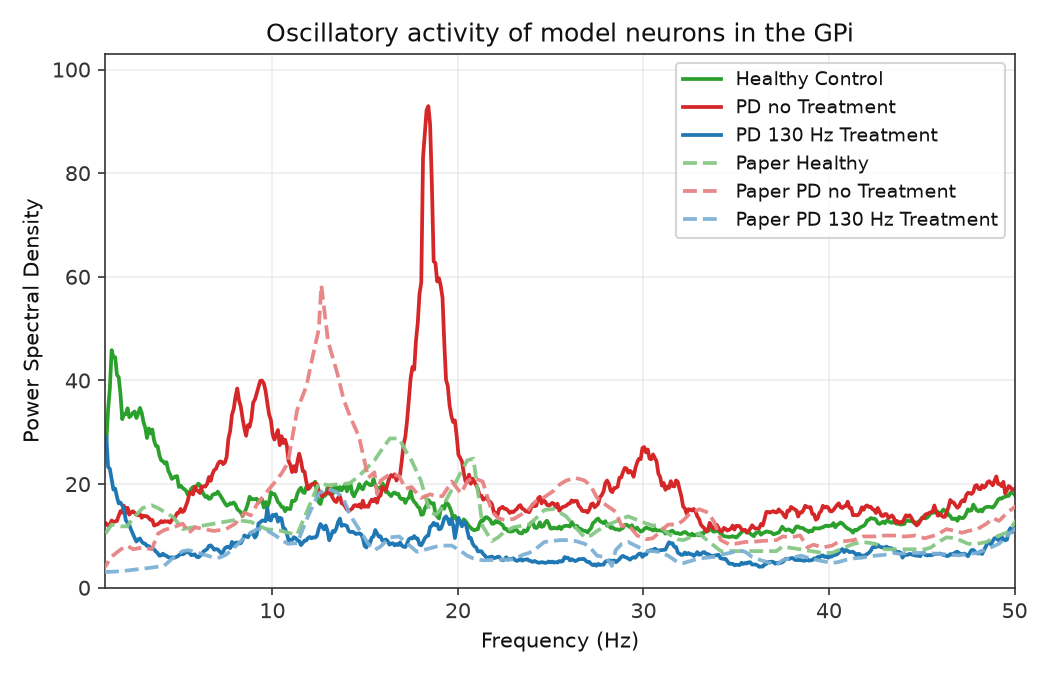
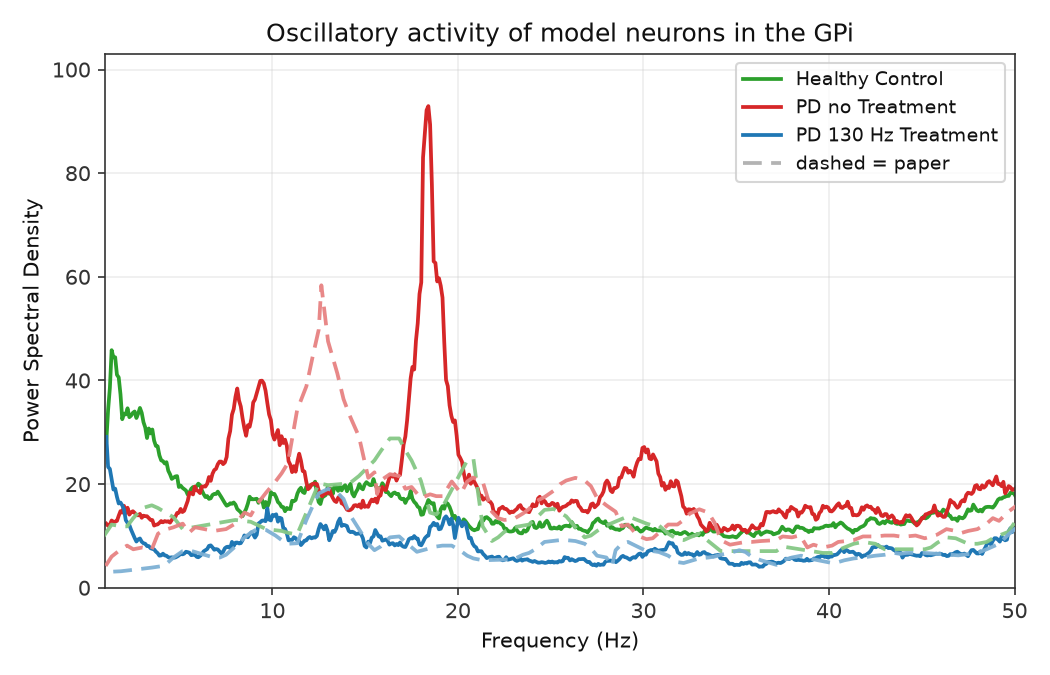
Condense Mehregan paper-overlay legends to one dashed=paper row.
Keep per-series lightened dashed traces on the axes; replace separate Paper * legend keys with a single translucent dashed handle so multi-curve panels stay readable.

diff --git a/scripts/figures/papers/paper_overlay.py b/scripts/figures/papers/paper_overlay.py
@@ -71,6 +71,10 @@ PAPER_RAW_LINEWIDTH = 1.15
 # Above typical replication zorders (usually 1–5) and annotations.
 PAPER_ZORDER = 50
 PAPER_RAW_ZORDER = 49
+# Single legend row for Mehregan (and optional callers): traces stay per-hue,
+# but the table only explains that dashed lightened lines are paper digitization.
+PAPER_CONDENSED_LEGEND_LABEL = "dashed = paper"
+PAPER_CONDENSED_LEGEND_COLOR = "#9a9a9a"
 
 PAPER_SMOOTH_STYLE: dict[str, Any] = {
     "color": "#000000",
@@ -111,6 +115,20 @@ def lighten_color(color: str, amount: float = PAPER_LIGHTEN) -> str:
 
 def paper_color_from_outline(outline: str, *, raw: bool = False) -> str:
     return lighten_color(outline, PAPER_RAW_LIGHTEN if raw else PAPER_LIGHTEN)
+
+
+def add_condensed_paper_legend(ax, *, label: str = PAPER_CONDENSED_LEGEND_LABEL) -> None:
+    """Add one translucent dashed legend handle for paper digitization overlays."""
+    ax.plot(
+        [],
+        [],
+        color=PAPER_CONDENSED_LEGEND_COLOR,
+        linestyle=(0, (5.0, 2.5)),
+        linewidth=PAPER_LINEWIDTH,
+        alpha=0.75,
+        zorder=PAPER_ZORDER,
+        label=label,
+    )
 
 
 def load_panel_curves(path: Path | str) -> dict[str, tuple[np.ndarray, np.ndarray]]:
@@ -227,12 +245,16 @@ def overlay_named_series(
     label_prefix: str = "Paper ",
     outline_colors: Sequence[str] | None = None,
     colors: Sequence[str] | None = None,
+    condensed_legend: bool = False,
+    condensed_legend_label: str = PAPER_CONDENSED_LEGEND_LABEL,
 ) -> dict[str, tuple[np.ndarray, np.ndarray]]:
     """Overlay digitized series listed as ``(digitization_name, legend_label)``.
 
     ``outline_colors`` / ``colors`` are replication outline hues; overlays are
     drawn lightened and dashed. ``snap_x=(lo, hi)`` linearly maps each series'
     x onto that window (use for panels whose paper axis is fixed, e.g. 0–12 s).
+    When ``condensed_legend`` is true, series use ``_nolegend_`` and one proxy
+    handle (``condensed_legend_label``) is added instead of per-series Paper rows.
     Returns ``{name: (x_plot, y_plot)}``.
     """
     curves = load_panel_curves(curves_path)
@@ -257,10 +279,16 @@ def overlay_named_series(
             ax,
             px_plot,
             py_plot,
-            label=f"{label_prefix}{legend_label}",
+            label=(
+                "_nolegend_"
+                if condensed_legend
+                else f"{label_prefix}{legend_label}"
+            ),
             outline_color=outline,
         )
         out[series_name] = (px_plot, py_plot)
+    if condensed_legend and out:
+        add_condensed_paper_legend(ax, label=condensed_legend_label)
     return out
 
 
@@ -518,6 +546,7 @@ def overlay_mehregan_fig1b(ax) -> dict[str, tuple[np.ndarray, np.ndarray]]:
         mapping,
         label_prefix="Paper ",
         outline_colors=(MEH_HEALTHY, MEH_PD, MEH_PD_130),
+        condensed_legend=True,
     )
 
 
@@ -532,6 +561,7 @@ def overlay_mehregan_fig2(ax) -> dict[str, tuple[np.ndarray, np.ndarray]]:
         mapping,
         label_prefix="Paper ",
         outline_colors=(MEH_PD, MEH_PD_130),
+        condensed_legend=True,
     )
 
 
@@ -546,13 +576,15 @@ def overlay_mehregan_fig2b(ax) -> dict[str, tuple[np.ndarray, np.ndarray]]:
         mapping,
         label_prefix="Paper ",
         outline_colors=(MEH_PD, MEH_PD_130),
+        condensed_legend=True,
     )
 
 
 def overlay_mehregan_fig4a(ax) -> dict[str, tuple[np.ndarray, np.ndarray]]:
     curves = load_panel_curves(MEHREGAN_DIG / "4a/paper_digitization/curves_wpd_refined.json")
     px, py = pick_series(curves, "training")
-    overlay_on_axis(ax, px, py, label="Paper (digitized)", outline_color=MEH_TRAIN_TEAL)
+    overlay_on_axis(ax, px, py, label="_nolegend_", outline_color=MEH_TRAIN_TEAL)
+    add_condensed_paper_legend(ax)
     return {"training": (py, py)}
 
 
@@ -563,6 +595,7 @@ def overlay_mehregan_fig4b_reward(ax) -> dict[str, tuple[np.ndarray, np.ndarray]
         (("Reward", "Reward"),),
         label_prefix="Paper ",
         outline_colors=(MEH_REWARD_GREEN,),
+        condensed_legend=True,
     )
 
 
@@ -573,6 +606,7 @@ def overlay_mehregan_fig4b_psd(ax) -> dict[str, tuple[np.ndarray, np.ndarray]]:
         (("PSD (x10^3)", "PSD"),),
         label_prefix="Paper ",
         outline_colors=(MEH_TRAIN_TEAL,),
+        condensed_legend=True,
     )
 
 
@@ -602,6 +636,7 @@ def overlay_mehregan_fig5a(ax) -> dict[str, tuple[np.ndarray, np.ndarray]]:
         label_prefix="Paper ",
         outline_colors=(MEH_NO_STIM, MEH_TRAINED, MEH_PERIODIC, MEH_CDBS),
         snap_x=(0.0, 12.0),
+        condensed_legend=True,
     )
 
 
@@ -618,6 +653,7 @@ def overlay_mehregan_fig5b(ax) -> dict[str, tuple[np.ndarray, np.ndarray]]:
         label_prefix="Paper ",
         outline_colors=(MEH_NO_STIM, MEH_TRAINED, MEH_PERIODIC),
         snap_x=(0.0, 12.0),
+        condensed_legend=True,
     )
 
 
@@ -635,6 +671,7 @@ def overlay_mehregan_fig6a(ax) -> dict[str, tuple[np.ndarray, np.ndarray]]:
         label_prefix="Paper ",
         outline_colors=(MEH_TRAINED, MEH_PTQ_INT8, MEH_PTQ_FP16, MEH_QAT),
         snap_x=(0.0, 12.0),
+        condensed_legend=True,
     )
 
 
@@ -652,6 +689,7 @@ def overlay_mehregan_fig6b(ax) -> dict[str, tuple[np.ndarray, np.ndarray]]:
         label_prefix="Paper ",
         outline_colors=(MEH_TRAINED, MEH_PTQ_INT8, MEH_PTQ_FP16, MEH_QAT),
         snap_x=(0.0, 12.0),
+        condensed_legend=True,
     )
 
 

diff --git a/figures/mehregan/replications.md b/figures/mehregan/replications.md
@@ -118,7 +118,7 @@ Windowed Error Index (EI, Eq. 2) over **12 s** with **So-style SMC pulses into T
 
 ### Replication
 
-![Replication Fig 2b](images/2b/error_index_v5.png)
+![Replication Fig 2b](images/2b/error_index_v6.png)
 
 <!-- caption-2b:start -->
 **Caption:** 14 s sim (2 s pre-roll), plot = sim − 2 s, 0.2 s trailing / 2 s EI window (end sim 14 s), SMC BoC inv-gamma Iappth, backend python, seed 0, v5 (2026-08-09)
@@ -166,7 +166,7 @@ Per-step GPi beta-band power during DDPG training of the **45 Hz** mean-frequenc
 
 ### Replication
 
-![Replication Fig 4a](images/4a/training_beta_v22.png)
+![Replication Fig 4a](images/4a/training_beta_v23.png)
 
 <!-- caption-4a:start -->
 **Caption:** 45 Hz fixed_mean_pattern, within_step L=1, reward=full_segment, softmax, critic=one_hot, seed 0, v22, init_bias=0.5, early=0.405 late=0.302, trend↓ (2026-08-09)
@@ -222,11 +222,11 @@ Episode **total reward** and **episode-mean PSD(x10³)** during the same **45 Hz
 
 **Reward vs episode**
 
-![Replication Fig 4b reward](images/4b/training_reward_v20.png)
+![Replication Fig 4b reward](images/4b/training_reward_v21.png)
 
 **Episode-mean PSD vs episode**
 
-![Replication Fig 4b PSD](images/4b/training_psd_v20.png)
+![Replication Fig 4b PSD](images/4b/training_psd_v21.png)
 
 <!-- caption-4b:start -->
 **Caption:** 9 episodes, 45 Hz fixed_mean_pattern (Fig 4a paired run), seed 0, source series_v4.json, v17, reward ep0=-29.1 ep8=16.1, rise_ep=4, psd 0.437→0.292, gate pass (2026-08-09)
@@ -282,7 +282,7 @@ Dashed vertical at **2 s** (stimulation onset). Paper claims: trained stimulatio
 
 ### Replication
 
-![Replication Fig 5a](images/5a/efficacy_45hz_v8.png)
+![Replication Fig 5a](images/5a/efficacy_45hz_v9.png)
 
 <!-- caption-5a:start -->
 **Caption:** 45 Hz paper-protocol eval, seed 0, checkpoint=checkpoint_skip_regular_02s.pt, skip_regular, 0.2s trailing, v7, trained_mean=395, no_stim_mean=498, periodic_mean=327, trained>periodic, gates pass (2026-08-09)
@@ -344,7 +344,7 @@ Key paper claim: **periodic 30 Hz elevates** beta (stimulation rate inside the b
 
 ### Replication
 
-![Replication Fig 5b](images/5b/efficacy_30hz_v9.png)
+![Replication Fig 5b](images/5b/efficacy_30hz_v10.png)
 
 <!-- caption-5b:start -->
 **Caption:** 30 Hz paper-protocol eval, seed 0, checkpoint=checkpoint.pt, 0.2s trailing, v9, trained_mean=367, no_stim_mean=488, periodic_mean=638, trained<both, gates pass (2026-08-09)
@@ -400,7 +400,7 @@ Paper claim: **PTQ** (fp16 and int8) tracks full-precision beta suppression afte
 
 ### Replication
 
-![Replication Fig 6a](images/6a/ptq_qat_45hz_v44.png)
+![Replication Fig 6a](images/6a/ptq_qat_45hz_v45.png)
 
 <!-- caption-6a:start -->
 **Caption:** 45 Hz paper-protocol eval, seed 0, fp32_post=336, qat_post=525, PTQ tracks fp32, QAT elevated, 2026-08-09
@@ -474,7 +474,7 @@ Same quantization panel layout as Fig 6a for the **30 Hz** trained model (§IV.A
 
 ### Replication
 
-![Replication Fig 6b](images/6b/ptq_qat_30hz_v24.png)
+![Replication Fig 6b](images/6b/ptq_qat_30hz_v25.png)
 
 <!-- caption-6b:start -->
 **Caption:** 30 Hz paper-protocol eval, seed 0, fp32_post=367, qat_post=499, PTQ tracks fp32, QAT elevated, 2026-08-09
